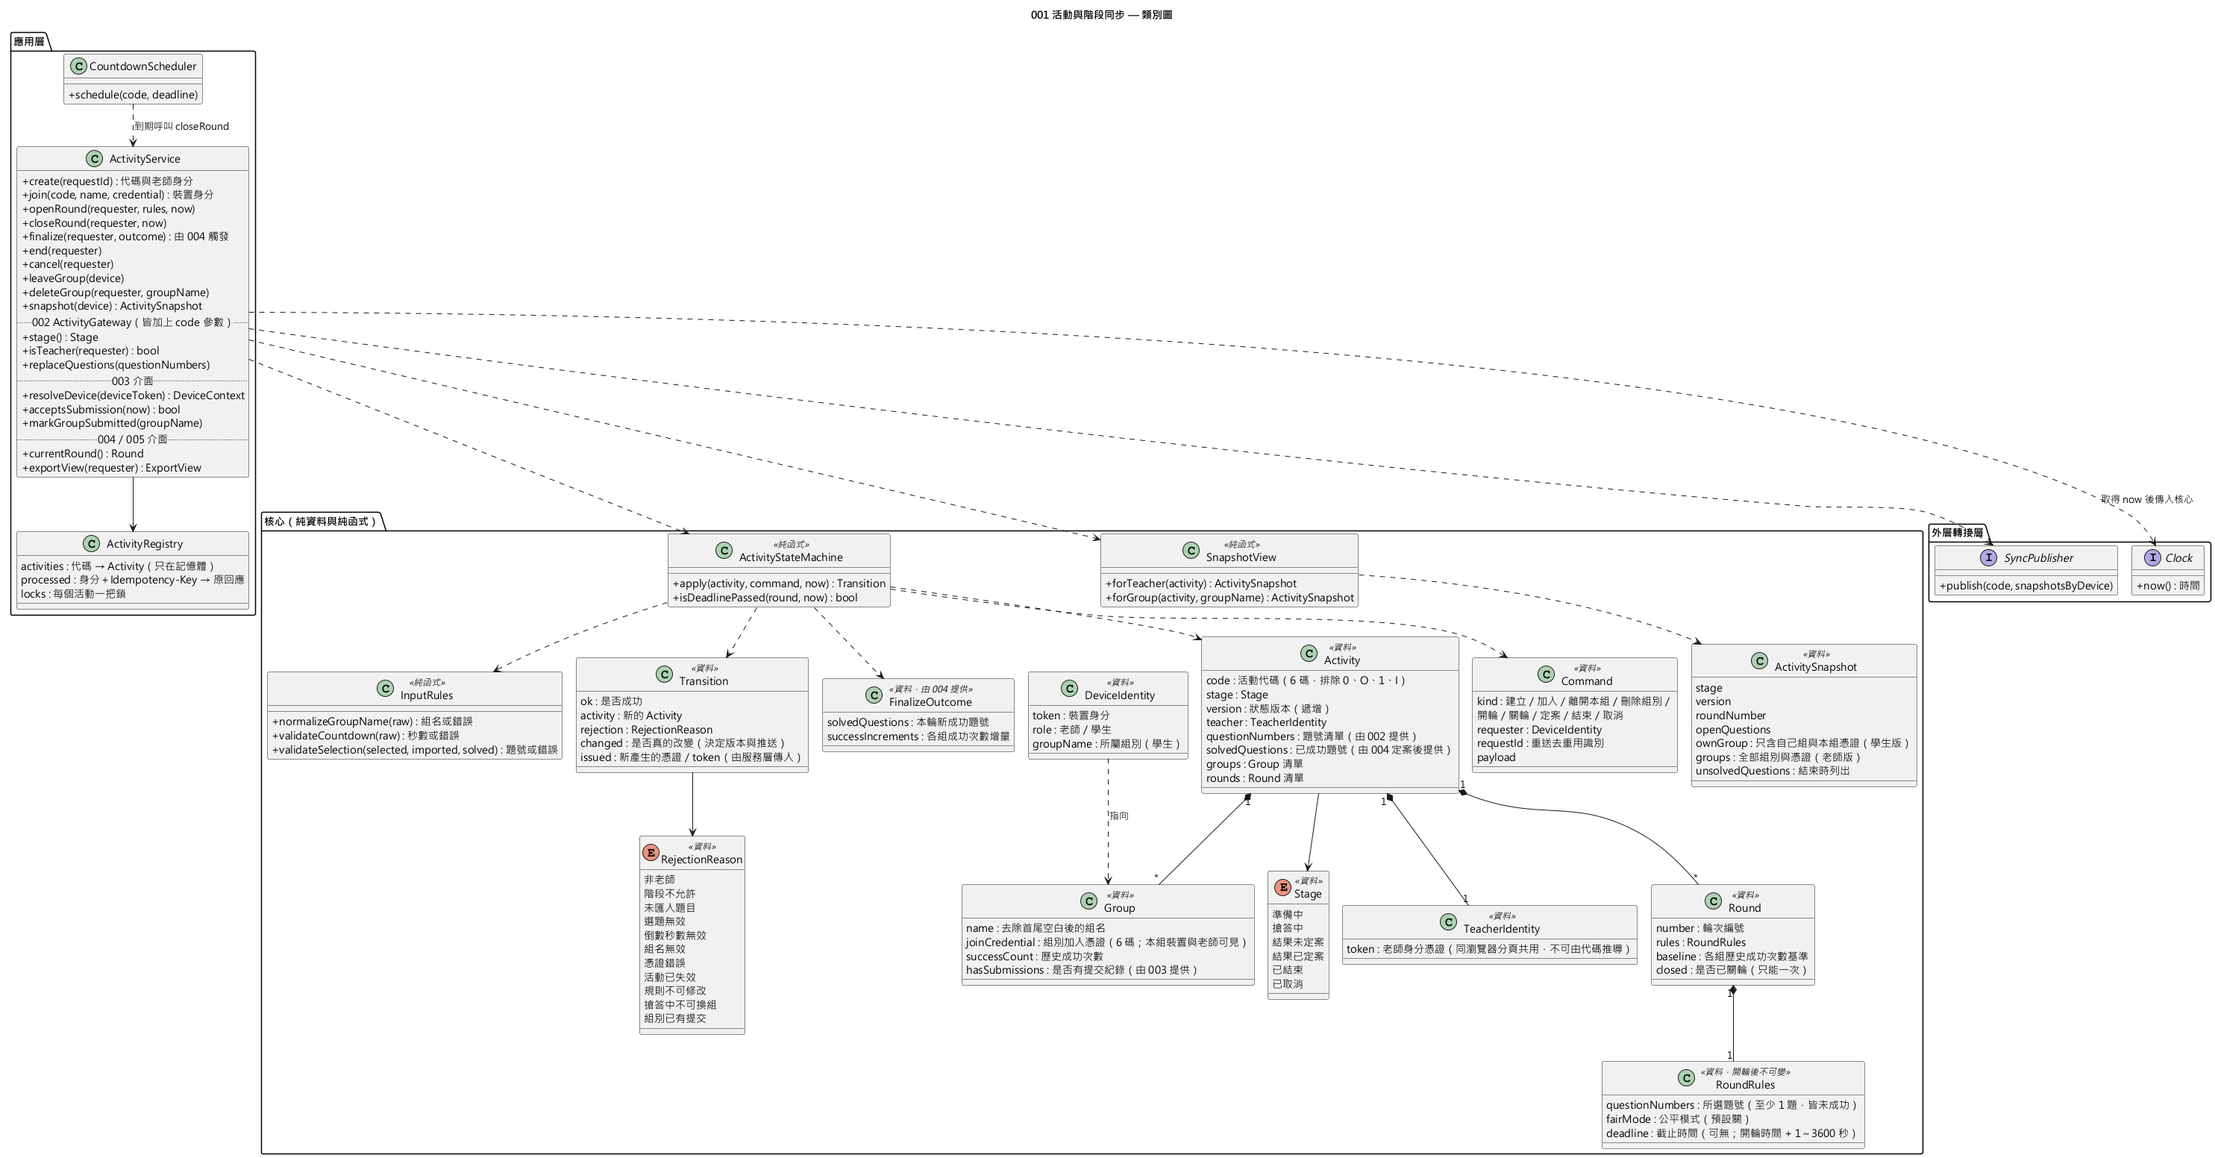
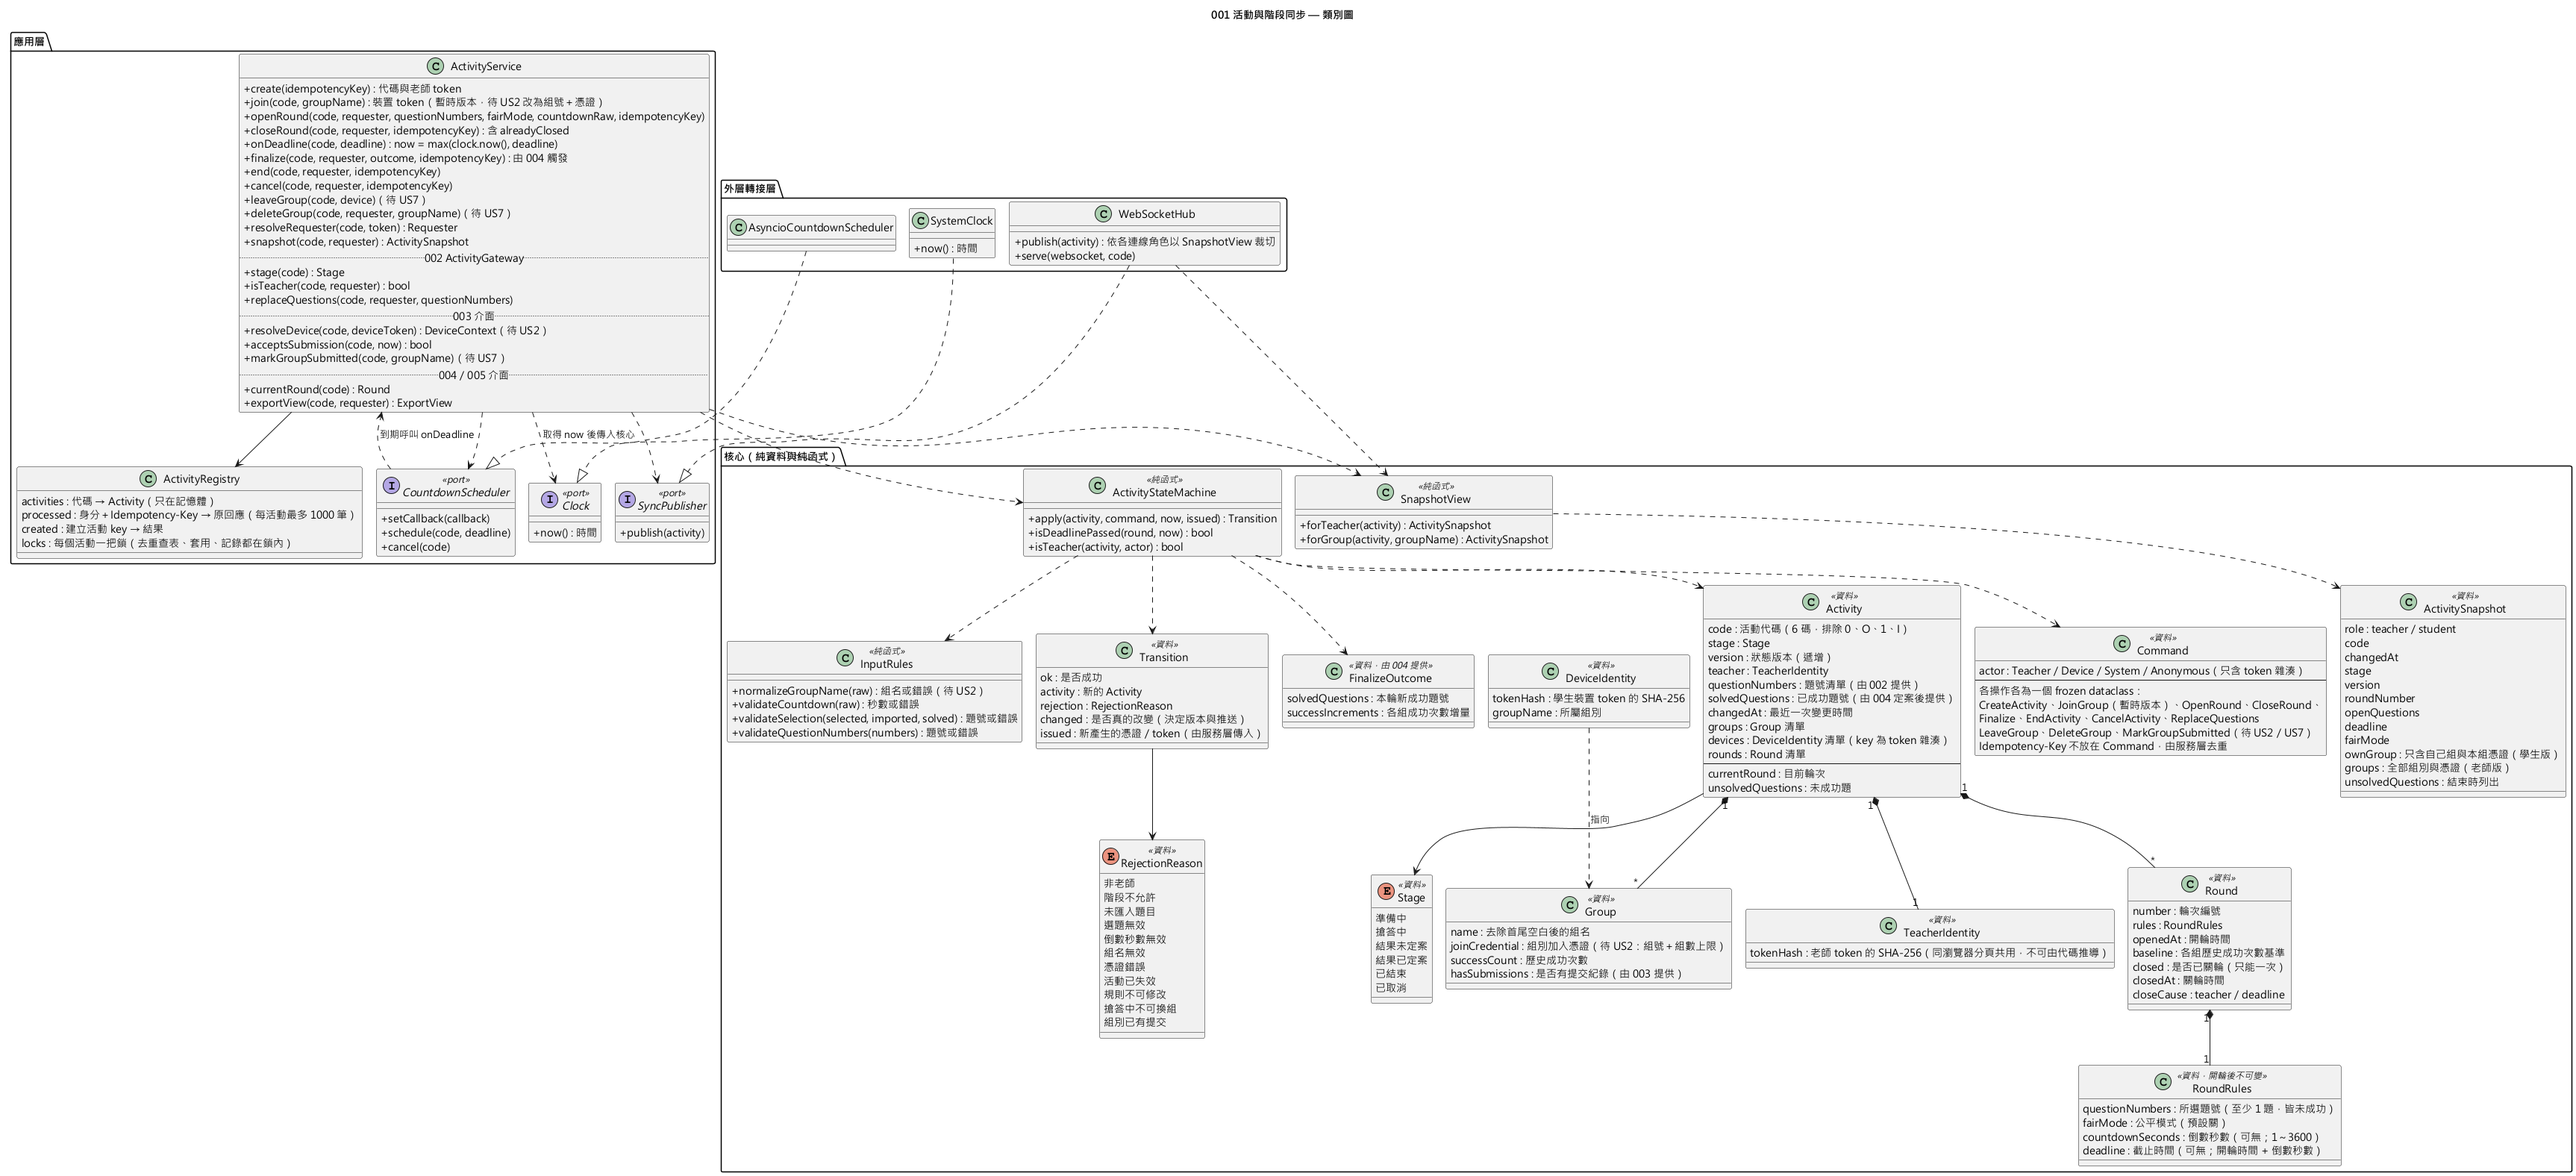
docs: 001 圖表與 plan 依實作同步（T082）
- 類別圖：Command 改為各操作 dataclass＋actor、Identity 只存 token 雜湊、
  Round／RoundRules 補齊欄位、ActivityService 簽名與 ports（Protocol）／外層實作
- 時序圖：onDeadline、openRound／closeRound 參數、publish(activity)
- 組件圖：ports 由外層實作、common.py、鎖內 Idempotency-Key 去重
- US2／US7 未實作項目保留並標註；plan Project Structure 補上 common.py、system.py、countdown.js

diff --git a/specs/001-activity-session/plan.md b/specs/001-activity-session/plan.md
@@ -115,7 +115,8 @@ specs/001-activity-session/
 ```text
 pyproject.toml                      # 相依、ruff、mypy、pytest 設定
 src/lecture_quiz/
-├── main.py                         # 建立 FastAPI app、logging 設定、掛載路由與靜態檔
+├── main.py                         # 建立 FastAPI app、logging 設定、組裝 001 服務、掛載路由與靜態檔
+├── __main__.py                     # python -m lecture_quiz（只監聽 127.0.0.1，日誌輸出到 stdout）
 ├── core/                           # 純函式層：不得匯入 app、adapters、fastapi、asyncio、time
 │   └── activity/
 │       ├── models.py               # Stage、Activity、Group、Round、RoundRules、TeacherIdentity、DeviceIdentity
@@ -126,7 +127,7 @@ src/lecture_quiz/
 │       └── snapshot_view.py        # SnapshotView、ActivitySnapshot
 ├── app/                            # 應用層：只依賴 core 與自己的 ports
 │   └── activity/
-│       ├── ports.py                # Clock、CountdownScheduler、SyncPublisher、ActivityGateway 等 Protocol
+│       ├── ports.py                # Clock、CountdownScheduler、SyncPublisher、ActivityGateway 等 Protocol（由 adapters 實作）
 │       ├── registry.py             # ActivityRegistry（記憶體、去重表、每個活動的鎖）
 │       ├── secrets_gen.py          # 代碼、憑證、token 產生與雜湊
 │       └── service.py              # ActivityService
@@ -134,14 +135,16 @@ src/lecture_quiz/
 │   ├── clock.py                    # SystemClock
 │   ├── countdown.py                # AsyncioCountdownScheduler
 │   ├── web/
-│   │   ├── http_api.py             # 11 個 HTTP 端點、錯誤轉換、請求 log
+│   │   ├── common.py               # 共用骨架（Issue #5）：統一錯誤格式、例外處理、請求 log、Bearer／Idempotency-Key 解析、/api 404 fallback
+│   │   ├── system.py               # 共用骨架：GET /api/health
+│   │   ├── http_api.py             # 001 的 HTTP 端點、Outcome 與 RejectionReason → HTTP
 │   │   ├── ws_sync.py              # WebSocket 連線管理、SyncPublisher 實作
 │   │   └── dev_seed.py             # 開發用 seed API（環境變數啟用；002 合併後移除）
 │   └── static/
 │       ├── teacher.html
 │       ├── student.html
 │       ├── css/app.css
-│       └── js/{api.js, sync.js, identity.js, teacher.js, student.js}
+│       └── js/{api.js, sync.js, identity.js, countdown.js, teacher.js, student.js}
 tests/
 ├── conftest.py                     # FakeClock、ManualScheduler、app 工廠
 ├── unit/core/                      # 狀態機、輸入規則、快照裁切

diff --git a/specs/001-activity-session/tasks.md b/specs/001-activity-session/tasks.md
@@ -483,7 +483,8 @@ description: "001-activity-session 任務清單"
   - 用 `caplog` 擷取一輪完整流程的 log，確認層級是 `INFO`，而且不含任何 `teacherToken`、`deviceToken`、`credential` 的值。
   - 在 `src/` 中用 grep 確認沒有 `print(`。
 - [ ] T081 執行 `ruff check .`、`ruff format --check .`、`mypy src`，全部通過並記錄結果（憲章 v1.0.1 技術限制 2）。
-- [ ] T082 程式碼與圖表一致性驗證：逐一比對 `diagrams/001-activity-session-*.puml` 的組件、類別、方法名稱、時序與實作（例如 `ActivityService` 的方法、`RejectionReason` 的值）。有差異時，先更新圖表並重新轉出 PNG（原則 II）。
+- [x] T082 程式碼與圖表一致性驗證：逐一比對 `diagrams/001-activity-session-*.puml` 的組件、類別、方法名稱、時序與實作（例如 `ActivityService` 的方法、`RejectionReason` 的值）。有差異時，先更新圖表並重新轉出 PNG（原則 II）。
+  - 2026-11-23（US1、US3～US6 範圍）：依 jacky0407 決定，以程式碼與 data-model 為準更新類別圖（Command、Identity 只存雜湊、Round／RoundRules 欄位、ActivityService 簽名、ports 與外層實作）、時序圖（onDeadline、openRound／closeRound 參數、publish(activity)）、組件圖（ports、common.py、鎖內去重）並重新轉出 PNG；US2／US7 尚未實作的項目保留在圖上並標「待 US2／US7」，實作後需再驗證一次。
 - [ ] T083 執行 `pytest` 與 `pytest -m perf`，記錄日期、指令，以及通過、失敗、略過的數字；perf 記錄四種操作的最大延遲（原則 VI、品質關卡 4）。
 - [ ] T084 由非實作者依 [quickstart.md](quickstart.md) 的 21 步人工驗證，記錄在 `specs/001-activity-session/verification.md`：日期、每一步的操作與結果、第 10、12 步的延遲 ms，以及 SC-005「1 分鐘內兩組加入」、SC-010「30 秒內換組」的實際時間（原則 VI）。
 - [ ] T085 [P] 指令或流程與文件不同時，更新 `specs/001-activity-session/quickstart.md`；在 `CLAUDE.md` 的「專案現況」補上 build、lint、test 指令與 `src/lecture_quiz` 三層結構（現在已有程式碼）。
